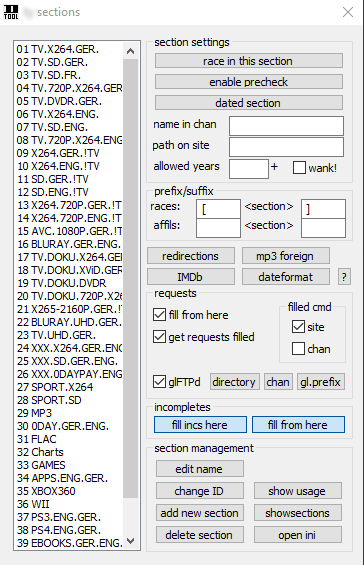
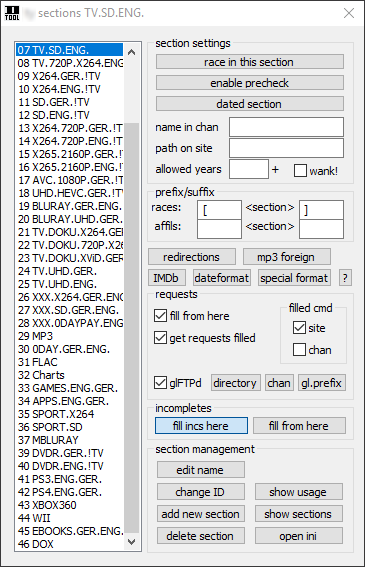
v8.1.4

diff --git a/SiteSetup.html b/SiteSetup.html
@@ -202,7 +202,9 @@ die Klammern  bei Prefix bzw. Suffix, also ein [ bei Prefix
 Zum einstellen der erlaubten Ratings und Votes bei Filmen. Zusätzlich kann man in englischen Filmsektionen  checken lassen ob die Sprache Englisch, es Doku oder Comedy ist.<br />
 Bei Comedy werden allerdings auch  Filmkomödien ausgeschlossen, nicht nur Comedyshows. Brauchte ich für eine Site die darauf besonders achtet...<br>
 <strong>- dateformat</strong><br>
-Hier stellt man das Datumsformat ein, das bei Dated-Sections auf der Site benutzt wird<br>
+Hier stellt man das Standard Datumsformat ein, das bei Dated-Sections auf der Site benutzt wird<br />
+<strong>- special format</strong><br />
+Hier kann man ein spezielles Datumsformat für diese Sektion festlegen<br>
 <strong>- ? </strong><br>
 Zeigt das eingestellte Datumsformat für den jeweiligen Tag an</p>
 <p class="normalschrift"><a href="https://d-tool.github.io/Reqfiller.html" class="link-normal"><strong>Requests</strong></a></p>
@@ -317,10 +319,15 @@ Eingabefeld stand, doppelt klicken), und entsprechend editieren, dann in
     <p><img src="SiteSetup-Dateien/menu-sections.png" width="364" height="567"><br />
       <br />
       <img src="SiteSetup-Dateien/menu-imdb.png" width="329" height="282"></p>
-    <p><img src="SiteSetup-Dateien/menu-redirections.png" width="313" height="253"></p>
+    <p><img src="SiteSetup-Dateien/menu-redirections.png" width="313" height="253"><br />
+      </p>
+    <p>&nbsp;</p>
     <p>&nbsp;</p>
     <p><br />
-      <br />
+    </p>
+    <p>&nbsp; </p>
+    <p>&nbsp;</p>
+    <p><br />
       <br />
       <img src="SiteSetup-Dateien/menu-rules.png" width="446" height="564"><br />
     </p>
